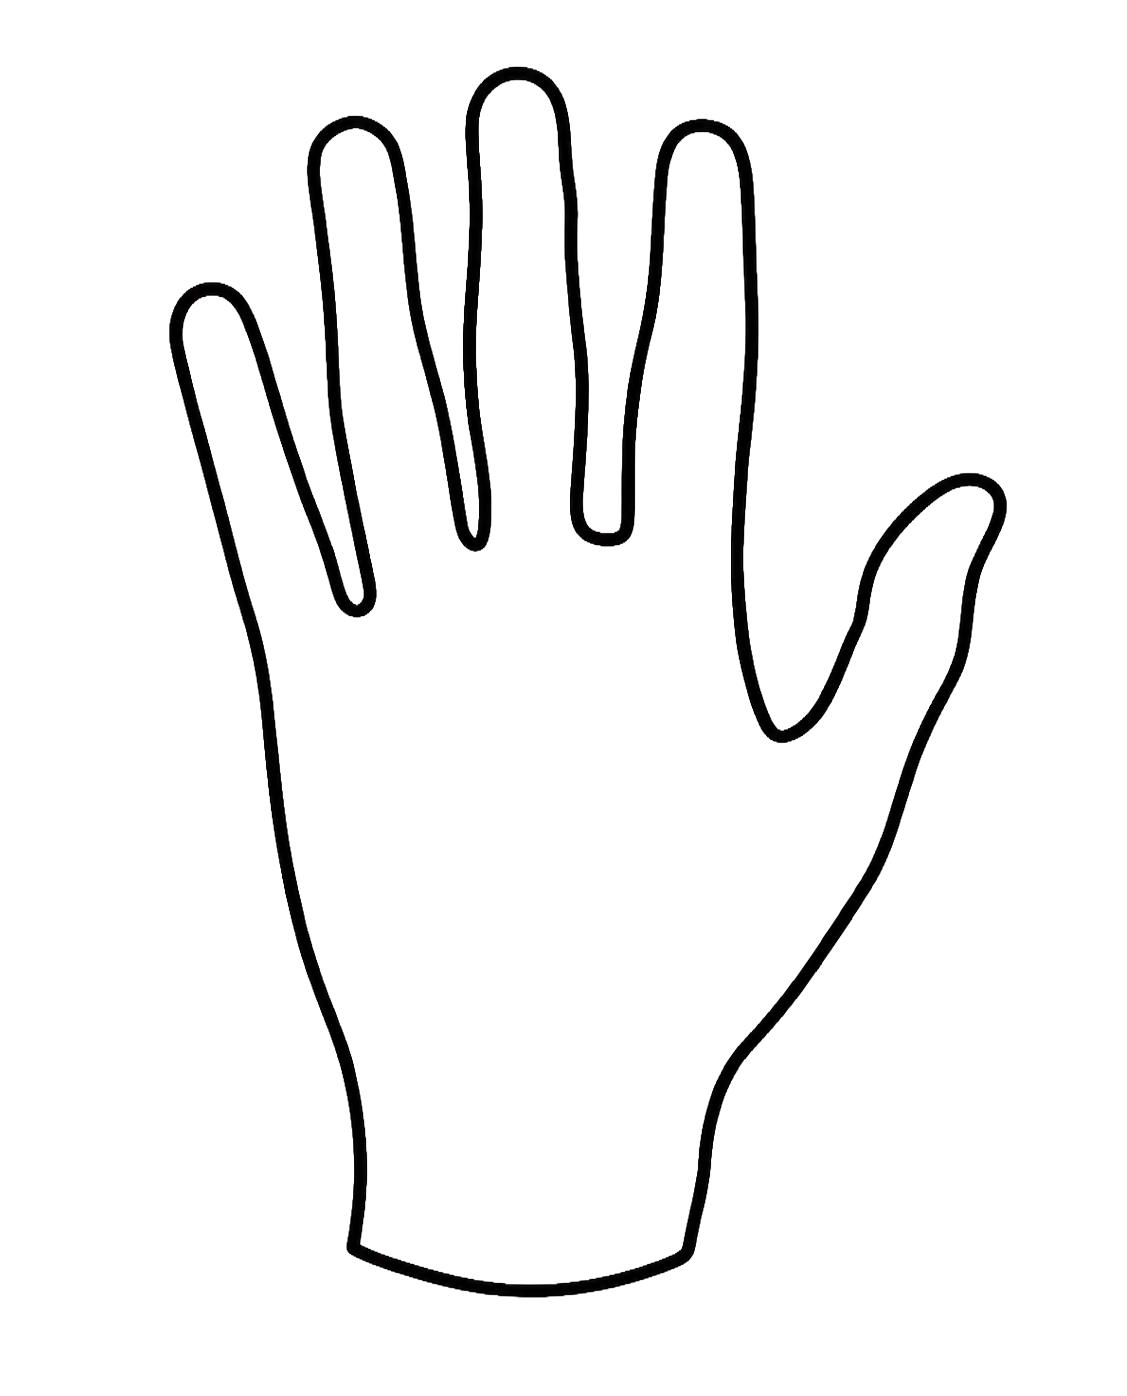
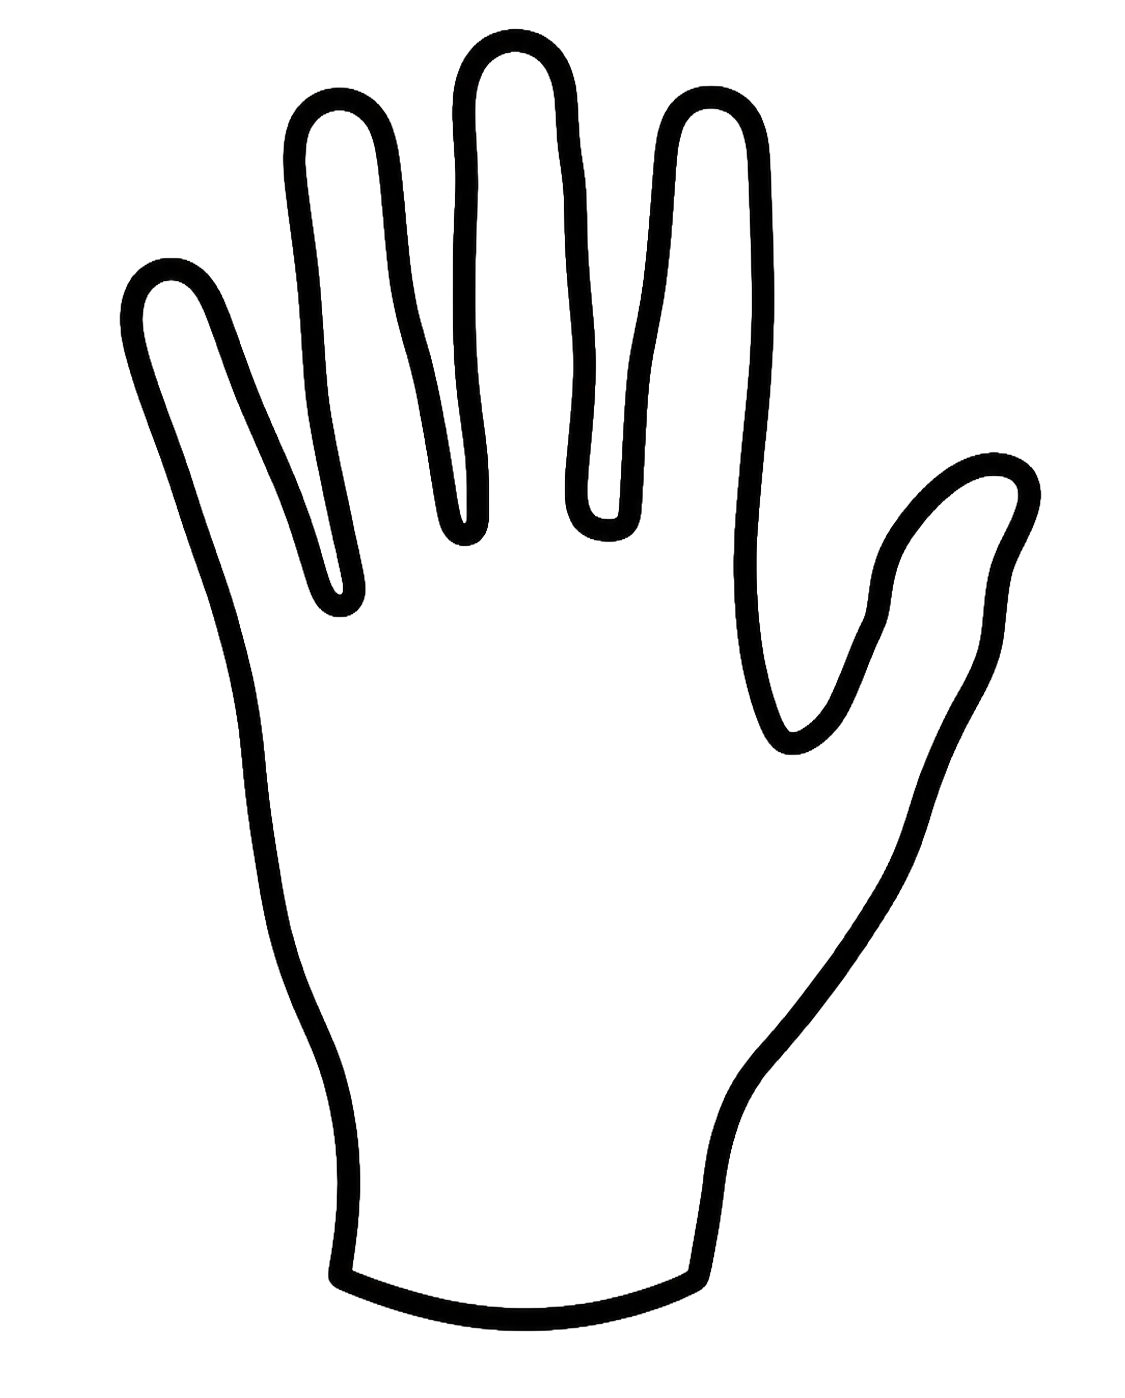
stroke + mano nueva

Changed region(s): [[0.0933, 0.0, 0.9333, 0.9549]]

diff --git a/app/components/Landing/Productos/HandCompare.css b/app/components/Landing/Productos/HandCompare.css
@@ -2,8 +2,8 @@
   width: 44px;
   height: 44px;
   border-radius: 50%;
-  background: #d4d4d4;
-  border: 1px solid transparent;
+  background: transparent;
+  border: 1px solid var(--color-black);
   cursor: pointer;
   display: flex;
   align-items: center;
@@ -12,12 +12,15 @@
 }
 
 .hand-toggle:hover {
-  background: #c4c4c4;
+  background: rgba(25, 25, 25, 0.08);
 }
 
 .hand-toggle--active {
-  background: white;
-  border-color: var(--color-black);
+  background: #d4d4d4;
+}
+
+.hand-toggle--active:hover {
+  background: #c4c4c4;
 }
 
 .hand-toggle__icon {

diff --git a/app/mis-proyectos/mis-proyectos.css b/app/mis-proyectos/mis-proyectos.css
@@ -139,7 +139,7 @@
   display: flex;
   flex-direction: column;
   background: white;
-  border: 1px solid #e0e0e0;
+  border: 2px solid var(--color-blue);
   text-decoration: none;
   color: inherit;
   overflow: hidden;